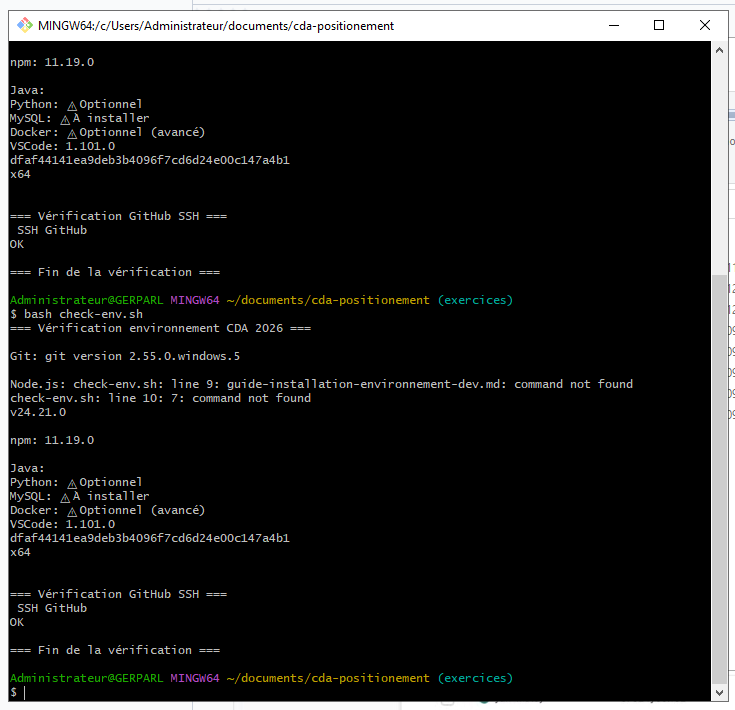
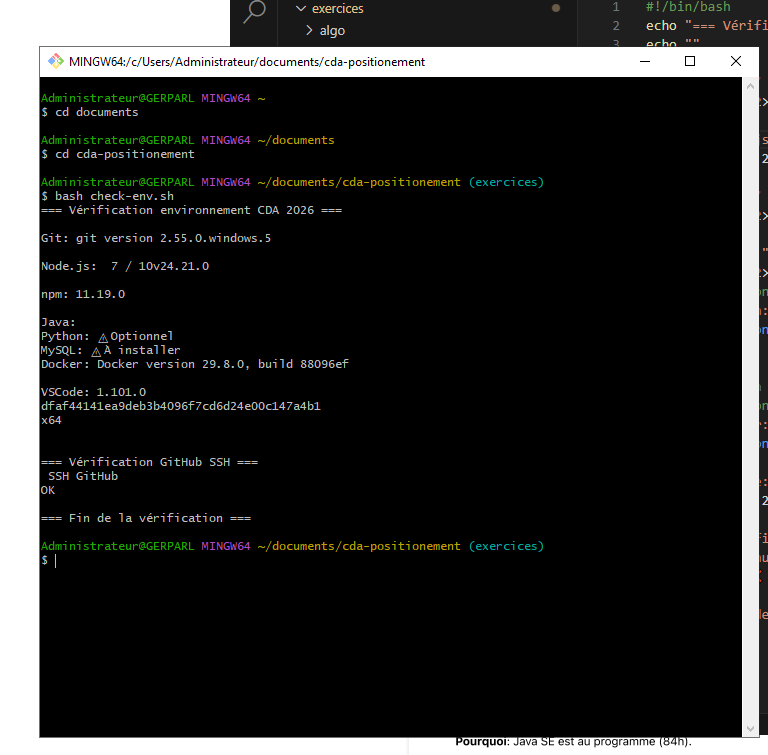
new version-1.1.0

Changed region(s): [[0.0, 0.0, 1.0, 1.0]]

diff --git a/exercices/js-dom/main.js b/exercices/js-dom/main.js
@@ -4,6 +4,7 @@ let spaceForResult = document.querySelector('.result')
 let form = document.querySelector('form')
 
 let list = document.createElement("ol")
+list.className = 'boxList'
 
 
 btn.addEventListener('click', (e) => {
@@ -15,6 +16,7 @@ btn.addEventListener('click', (e) => {
     }
     
     let listElement = document.createElement("li")
+    listElement.className ="listElement"
 
     listElement.textContent += input.value
 
@@ -24,11 +26,10 @@ btn.addEventListener('click', (e) => {
 
     btnDelete.addEventListener('click', ()=> {
         list.removeChild(listElement)
-        list.removeChild(btnDelete)
     })
 
     list.appendChild(listElement)
-    list.appendChild(btnDelete)
+    listElement.appendChild(btnDelete)
     spaceForResult.appendChild(list)
 
     input.value = ""

diff --git a/exercices/js-dom/style.css b/exercices/js-dom/style.css
@@ -14,6 +14,20 @@ body {
 .result {
     width: 500px;
     height: 500px;
+    overflow-y: scroll;
+}
+::-webkit-scrollbar {
+    display: none;
+}
+.boxList {
+    display: flex;
+    flex-direction: column;
+    gap: 10px;
+}
+.listElement {
+    width: 100%;
+    display: flex;
+    justify-content: space-between;
 }
 form {
     display: flex;

diff --git a/exercices/html-css/index.html b/exercices/html-css/index.html
@@ -3,7 +3,7 @@
 <head>
     <meta charset="UTF-8">
     <meta name="viewport" content="width=device-width, initial-scale=1.0">
-    <link href="/exercices/css/style.css" rel="stylesheet"/>
+    <link href="/exercices/html-css/css/style.css" rel="stylesheet"/>
     <title>Home</title>
 </head>
 <body>
